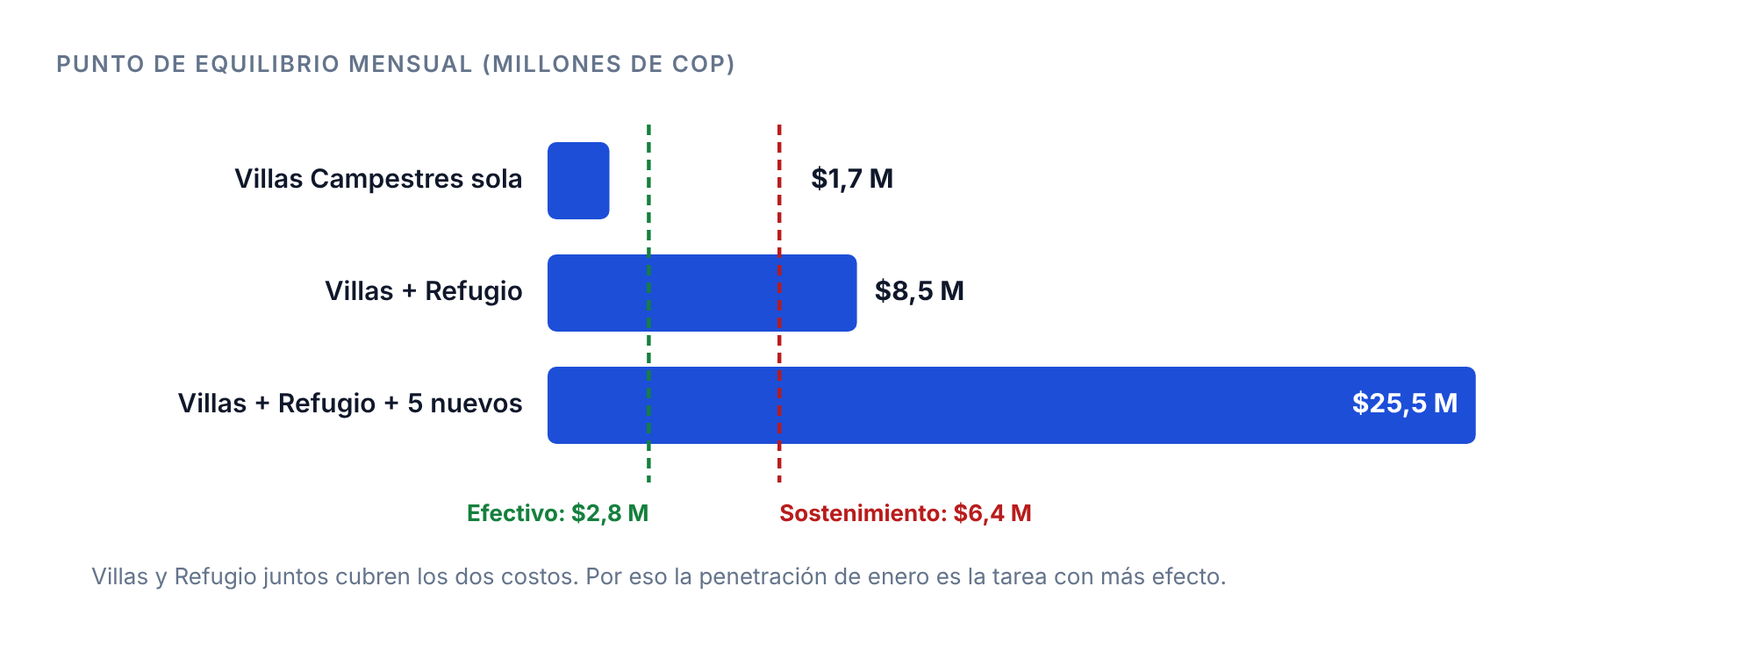
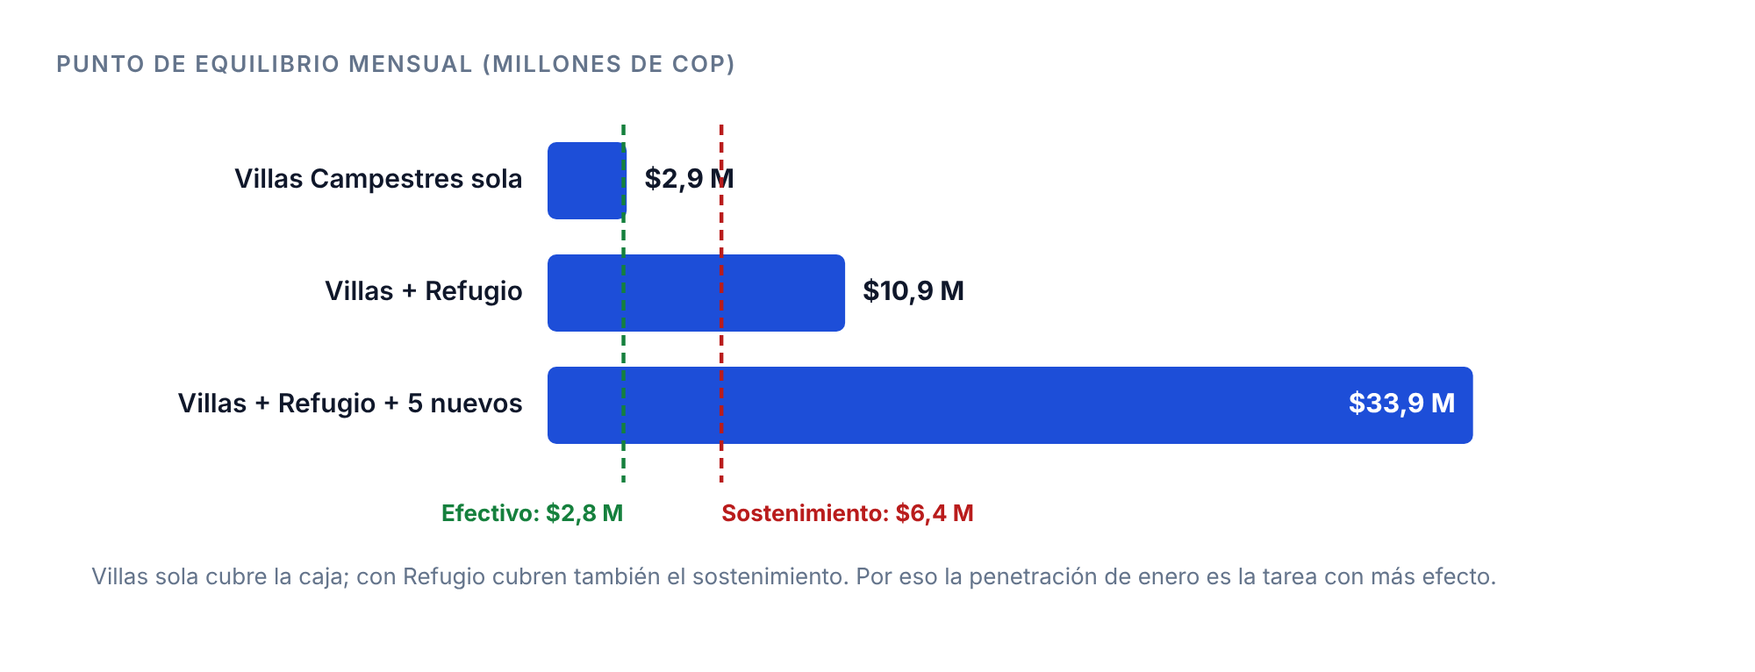
Roadmap: precio con pago fijo de $1.200.000 + $16.000 por casa (D-014 D)
Alejandro cambió el precio en el chat del proyecto: pago fijo por
conjunto + cobro por casa + comisión de $2.000 por pago. Recalcula
ingresos, escenarios, equilibrio y figuras. KINO queda entre 6 % y 29 %
más caro que Unita; el documento lo dice.

Claude-Session: https://claude.ai/code/session_012DQwra82ZAV2m5H2koZjXH

diff --git a/eafit/2026-11-roadmap-estrategia/entrega/figuras/fuente-figuras.html b/eafit/2026-11-roadmap-estrategia/entrega/figuras/fuente-figuras.html
@@ -126,7 +126,7 @@ svg text{font-family:Inter,sans-serif}
 <!-- 21 PESO EN LA CUOTA -->
 <div class="fig" id="f21">
  <div class="t">Cuánto pesa cada costo en lo que recauda el conjunto (% de la cuota)</div>
- <svg id="sv21" width="936" height="200"></svg>
+ <svg id="sv21" width="936" height="250"></svg>
 </div>
 
 <!-- 12 EXPANSION -->
@@ -259,20 +259,20 @@ el(s,'line',{x1:L+W/2,y1:T,x2:L+W/2,y2:T+H,stroke:C.line,'stroke-dasharray':'4 4
 tx(s,L+W/2,T+H+34,'Riesgo de ejecución →',{a:'middle',fw:600,fill:C.mut});
 el(s,'text',{x:28,y:T+H/2,'font-size':15,fill:C.mut,'font-weight':600,'text-anchor':'middle',transform:`rotate(-90 28 ${T+H/2})`},'Rentabilidad →');
 ['Bajo','Medio','Alto'].forEach((t,i)=>tx(s,L+W*(i*.5),T+H+16,t,{a:i==0?'start':i==1?'middle':'end',fs:12.5,fill:C.mut}));
-const P=[['A','Por casa, con mínimo',.15,.86,1],['B','Piso + casa (Unita)',.32,.70,0],['C','Por valor',.58,.76,0],['D','Comisión de pagos',.86,.93,1],['E','Implementación',.12,.57,1],['F','Canal de instaladores',.55,.25,0]];
+const P=[['A','Por casa, con mínimo',.15,.70,0],['B','Pago fijo + casa',.24,.86,1],['C','Por valor',.58,.76,0],['D','Comisión de pagos',.86,.93,1],['E','Implementación',.12,.57,1],['F','Canal de instaladores',.55,.25,0]];
 P.forEach(([k,n,rx,ry,ch])=>{const x=L+rx*W,y=T+(1-ry)*H;const col=ch==1?C.ac:ch==2?C.ac2:C.mut;el(s,'circle',{cx:x,cy:y,r:22,fill:ch?col:'#fff',stroke:col,'stroke-width':2});tx(s,x,y+1,k,{a:'middle',b:'middle',fw:700,fill:ch?'#fff':col,fs:16});const lf=k=='D';const ox=lf?-30:30,an=lf?'end':'start';tx(s,x+ox,y-4,n,{fw:700,fill:C.ink,fs:14.5,a:an});tx(s,x+ox,y+14,ch==1?'elegido desde el primer conjunto':ch==2?'elegido desde la etapa 03':'no elegido por ahora',{fs:12.5,fill:ch?col:C.mut,a:an})});})();
 
 // 10 ancla
-(()=>{const s=document.getElementById('sv10');const L=250,W=520,max=20e6;const R=[['Puesto de vigilancia 24 h',17.1e6,19.6e6,C.mut],['KINO · Refugio (400 casas)',6.4e6,0,C.ac],['KINO · Villas (100 casas)',1.6e6,0,C.ac]];
+(()=>{const s=document.getElementById('sv10');const L=250,W=520,max=20e6;const R=[['Puesto de vigilancia 24 h',17.1e6,19.6e6,C.mut],['KINO · Refugio (400 casas)',7.6e6,0,C.ac],['KINO · Villas (100 casas)',2.8e6,0,C.ac]];
 R.forEach((r,i)=>{const y=20+i*66;tx(s,L-14,y+22,r[0],{a:'end',b:'middle',fw:600,fill:C.ink});el(s,'rect',{x:L,y,width:r[1]/max*W,height:44,rx:6,fill:r[3]});if(r[2])el(s,'rect',{x:L+r[1]/max*W,y,width:(r[2]-r[1])/max*W,height:44,rx:0,fill:r[3],opacity:.4});tx(s,L+(r[2]||r[1])/max*W+10,y+22,r[2]?`$${M(r[1])} a $${M(r[2])} M`:`$${M(r[1])} M`,{b:'middle',fw:700,fill:C.ink})});
-tx(s,20,236,'Villas paga KINO con el 9 % de lo que cuesta un puesto de vigilancia. Fuentes: Noticias RCN y El Espectador (2026); precio de KINO del capítulo 2.',{fs:13,fill:C.mut});})();
+tx(s,20,236,'Villas paga KINO con el 14 % al 16 % de lo que cuesta un puesto de vigilancia. Fuentes: Noticias RCN y El Espectador (2026).',{fs:13,fill:C.mut});})();
 
 // 11 precio KINO frente a Unita
-(()=>{const s=document.getElementById('sv11');const L=250,W=560,max=7e6;const R=[['Villas Campestres · 100 casas',100],['Conjunto nuevo · 200 casas',200],['Refugio Campestre · 400 casas',400]];
-R.forEach((r,i)=>{const y=14+i*66;const k=Math.max(1.2e6,r[1]*16000),u=1.55e6+r[1]*10900;tx(s,L-14,y+25,r[0],{a:'end',b:'middle',fw:600,fill:C.ink});
+(()=>{const s=document.getElementById('sv11');const L=250,W=560,max=8.5e6;const R=[['Villas Campestres · 100 casas',100],['Conjunto nuevo · 200 casas',200],['Refugio Campestre · 400 casas',400]];
+R.forEach((r,i)=>{const y=14+i*66;const k=1.2e6+r[1]*16000,u=1.55e6+r[1]*10900;tx(s,L-14,y+25,r[0],{a:'end',b:'middle',fw:600,fill:C.ink});
 el(s,'rect',{x:L,y,width:k/max*W,height:24,fill:C.ac,rx:4});tx(s,L+k/max*W+10,y+12,'KINO $'+fmt(k),{b:'middle',fw:700,fill:C.ink,fs:14});
 el(s,'rect',{x:L,y:y+28,width:u/max*W,height:20,fill:C.line,rx:4});tx(s,L+u/max*W+10,y+38,'Unita $'+fmt(u),{b:'middle',fill:C.mut,fs:13})});
-tx(s,20,232,'KINO: $16.000 por casa al mes, mínimo $1.200.000. Unita: $1.550.000 por conjunto + $10.900 por casa. KINO es más barato hasta 304 casas.',{fs:13,fill:C.mut});})();
+tx(s,20,232,'KINO: $1.200.000 por conjunto + $16.000 por casa al mes. Unita: $1.550.000 por conjunto + $10.900 por casa.',{fs:13,fill:C.mut});})();
 
 // 12 expansion
 (()=>{const s=document.getElementById('sv12');arrowDef(s,'a12');const L=150,B=380,W=740,H=340;
@@ -331,8 +331,8 @@ parts.forEach((p,j)=>{const x=L+j*165;el(s,'rect',{x,y:226,width:14,height:14,fi
 tx(s,20,272,'El trabajo de los socios vale $3.120.000 al mes, pero hoy no sale de la caja. La alternativa barata es la del apartado 5.5 (en efectivo).',{fs:13,fill:C.mut});})();
 
 // 15 escenarios
-(()=>{const s=document.getElementById('sv15');const L=70,B=300,H=260,max=300;const sc=[['Conservador',134.1],['Base',231.7],['Optimista',256.8]];const ce=40.14,cs=109.58;
-[0,50,100,150,200,250,300].forEach(v=>{const y=B-v/max*H;el(s,'line',{x1:L,y1:y,x2:900,y2:y,stroke:C.soft});tx(s,L-10,y,String(v),{a:'end',b:'middle',fs:12.5,fill:C.mut})});
+(()=>{const s=document.getElementById('sv15');const L=70,B=300,H=260,max=350;const sc=[['Conservador',172.5],['Base',300.1],['Optimista',331.2]];const ce=40.14,cs=109.58;
+[0,50,100,150,200,250,300,350].forEach(v=>{const y=B-v/max*H;el(s,'line',{x1:L,y1:y,x2:900,y2:y,stroke:C.soft});tx(s,L-10,y,String(v),{a:'end',b:'middle',fs:12.5,fill:C.mut})});
 sc.forEach((r,i)=>{const x=L+60+i*260;const h=r[1]/max*H;el(s,'rect',{x,y:B-h,width:110,height:h,fill:i==1?C.ac:C.acs,stroke:C.ac,rx:4});tx(s,x+55,B-h-10,'$'+r[1].toFixed(1).replace('.',',')+' M',{a:'middle',fw:700,fill:C.ink});tx(s,x+55,B+22,r[0],{a:'middle',fw:i==1?700:600,fill:C.ink})});
 let lg=0;const ln=(v,c,t)=>{const y=B-v/max*H;el(s,'line',{x1:L,y1:y,x2:900,y2:y,stroke:c,'stroke-width':2.2,'stroke-dasharray':'7 5'});el(s,'line',{x1:L+lg,y1:B+48,x2:L+lg+28,y2:B+48,stroke:c,'stroke-width':2.2,'stroke-dasharray':'7 5'});tx(s,L+lg+36,B+53,t,{fs:13.5,fw:700,fill:c});lg+=330};
 ln(ce,C.ok,'Costo en efectivo: $40,1 M');ln(cs,C.ba,'Costo de sostenimiento: $109,6 M');
@@ -340,10 +340,10 @@ tx(s,L,B+84,'Los tres escenarios cubren los dos costos. El base cumple la meta d
 
 // 16 flujo acumulado
 (()=>{const s=document.getElementById('sv16');const ms=['nov','dic','ene','feb','mar','abr','may','jun','jul','ago','sep','oct','nov','dic'];
-const E=[-3981735,-3563470,-6345205,-626940,5091325,17409590,33127855,52246120,74764385,100682650,123400915,146119180,168837445,191555710];
-const S=[-7569735,-13939470,-20309205,-18178940,-16048675,-10518410,-1588145,10742120,26472385,45602650,64732915,83863180,102993445,122123710];
-const L=80,T=20,W=740,H=330,min=-50e6,max=250e6;const y=v=>T+(max-v)/(max-min)*H;const x=i=>L+i*(W/13);
-[-50,0,50,100,150,200,250].forEach(v=>{el(s,'line',{x1:L,y1:y(v*1e6),x2:L+W,y2:y(v*1e6),stroke:v==0?C.ink:C.soft,'stroke-width':v==0?1.5:1});tx(s,L-10,y(v*1e6),String(v),{a:'end',b:'middle',fs:12.5,fill:C.mut})});
+const E=[-3981735,-3563470,-6345205,1773060,9891325,25809590,46327855,71446120,101164385,135482650,166600915,197719180,228837445,259955710];
+const S=[-7569735,-13939470,-20309205,-15778940,-11248675,-2118410,11611855,29942120,52872385,80402650,107932915,135463180,162993445,190523710];
+const L=80,T=20,W=740,H=330,min=-50e6,max=300e6;const y=v=>T+(max-v)/(max-min)*H;const x=i=>L+i*(W/13);
+[-50,0,50,100,150,200,250,300].forEach(v=>{el(s,'line',{x1:L,y1:y(v*1e6),x2:L+W,y2:y(v*1e6),stroke:v==0?C.ink:C.soft,'stroke-width':v==0?1.5:1});tx(s,L-10,y(v*1e6),String(v),{a:'end',b:'middle',fs:12.5,fill:C.mut})});
 ms.forEach((m,i)=>tx(s,x(i),T+H+20,m,{a:'middle',fs:12.5,fill:C.mut}));tx(s,x(0.5),T+H+40,'2026',{a:'middle',fs:12,fw:700,fill:C.ink});tx(s,x(8),T+H+40,'2027',{a:'middle',fs:12,fw:700,fill:C.ink});
 [[3,'Villas y Refugio pagan',14],[5,'Primer conjunto nuevo',34]].forEach(([i,t,o])=>{el(s,'line',{x1:x(i),y1:T,x2:x(i),y2:T+H,stroke:C.line,'stroke-dasharray':'4 4'});tx(s,x(i)+6,T+o,t,{fs:12.5,fw:700,fill:C.mut})});
 const path=(A,c)=>{let d='';A.forEach((v,i)=>d+=(i?' L':'M')+x(i)+','+y(v));el(s,'path',{d,stroke:c,'stroke-width':3,fill:'none'});A.forEach((v,i)=>el(s,'circle',{cx:x(i),cy:y(v),r:3.5,fill:c}))};
@@ -353,14 +353,14 @@ tx(s,x(2),y(S[2])+24,'punto más bajo: '+M(S[2]),{fs:12.5,fill:C.ba,fw:600,a:'mi
 el(s,'line',{x1:L,y1:T+H+58,x2:L+24,y2:T+H+58,stroke:C.ok,'stroke-width':3});tx(s,L+30,T+H+62,'En efectivo',{fs:13.5});el(s,'line',{x1:L+150,y1:T+H+58,x2:L+174,y2:T+H+58,stroke:C.ba,'stroke-width':3});tx(s,L+180,T+H+62,'Sostenimiento (incluye el trabajo de los socios)',{fs:13.5});})();
 
 // 17 equilibrio
-(()=>{const s=document.getElementById('sv17');const L=280,W=560,max=27e6;const R=[['Villas Campestres sola',1.7e6],['Villas + Refugio',8.5e6],['Villas + Refugio + 5 nuevos',25.5e6]];
-R.forEach((r,i)=>{const yy=20+i*64;tx(s,L-14,yy+22,r[0],{a:'end',b:'middle',fw:600,fill:C.ink});el(s,'rect',{x:L,y:yy,width:r[1]/max*W,height:44,rx:5,fill:C.ac});const lx=L+r[1]/max*W+10;tx(s,i==2?lx-20:(i==0?L+150:lx),yy+22,'$'+M(r[1])+' M',{b:'middle',fw:700,fill:i==2?'#fff':C.ink,a:i==2?'end':'start'})});
+(()=>{const s=document.getElementById('sv17');const L=280,W=560,max=36e6;const R=[['Villas Campestres sola',2.9e6],['Villas + Refugio',10.9e6],['Villas + Refugio + 5 nuevos',33.9e6]];
+R.forEach((r,i)=>{const yy=20+i*64;tx(s,L-14,yy+22,r[0],{a:'end',b:'middle',fw:600,fill:C.ink});el(s,'rect',{x:L,y:yy,width:r[1]/max*W,height:44,rx:5,fill:C.ac});const lx=L+r[1]/max*W+10;tx(s,i==2?lx-20:lx,yy+22,'$'+M(r[1])+' M',{b:'middle',fw:700,fill:i==2?'#fff':C.ink,a:i==2?'end':'start'})});
 const ln=(v,c,t,o,an)=>{const x=L+v/max*W;el(s,'line',{x1:x,y1:10,x2:x,y2:214,stroke:c,'stroke-width':2.2,'stroke-dasharray':'6 4'});tx(s,x,236+o,t,{a:an,fs:13,fw:700,fill:c})};
 ln(2781735,C.ok,'Efectivo: $2,8 M',0,'end');ln(6369735,C.ba,'Sostenimiento: $6,4 M',0,'start');
-tx(s,20,272,'Villas y Refugio juntos cubren los dos costos. Por eso la penetración de enero es la tarea con más efecto.',{fs:13,fill:C.mut});})();
+tx(s,20,272,'Villas sola cubre la caja; con Refugio cubren también el sostenimiento. Por eso la penetración de enero es la tarea con más efecto.',{fs:13,fill:C.mut});})();
 
 // 21 peso en la cuota
-(()=>{const s=document.getElementById('sv21');const L=330,W=480,max=40;const R=[['Puesto de vigilancia · Villas (100 casas)',28.5,32.7,C.mut],['Puesto de vigilancia · Refugio (400 casas)',7.1,8.2,C.mut],['KINO · cualquier conjunto',2.7,0,C.ac]];
+(()=>{const s=document.getElementById('sv21');const L=330,W=480,max=40;const R=[['Puesto de vigilancia · Villas (100 casas)',28.5,32.7,C.mut],['Puesto de vigilancia · Refugio (400 casas)',7.1,8.2,C.mut],['KINO · Villas (100 casas)',4.7,0,C.ac],['KINO · Refugio (400 casas)',3.2,0,C.ac]];
 R.forEach((r,i)=>{const y=14+i*50;tx(s,L-14,y+17,r[0],{a:'end',b:'middle',fw:600,fill:C.ink,fs:14});el(s,'rect',{x:L,y,width:r[1]/max*W,height:34,rx:5,fill:r[3]});if(r[2])el(s,'rect',{x:L+r[1]/max*W,y,width:(r[2]-r[1])/max*W,height:34,fill:r[3],opacity:.4});const v=r[2]?`${String(r[1]).replace('.',',')} % a ${String(r[2]).replace('.',',')} %`:`${String(r[1]).replace('.',',')} %`;tx(s,L+(r[2]||r[1])/max*W+10,y+17,v,{b:'middle',fw:700,fill:C.ink})});
-tx(s,20,180,'Parte de lo que recauda el conjunto con una cuota de $600.000 por casa. Vigilancia: $17,1 a $19,6 M al mes (Noticias RCN y El Espectador, 2026).',{fs:13,fill:C.mut});})();
+tx(s,20,230,'Parte de lo que recauda el conjunto con una cuota de $600.000 por casa. Vigilancia: $17,1 a $19,6 M al mes (Noticias RCN y El Espectador, 2026).',{fs:13,fill:C.mut});})();
 </script></body></html>

diff --git a/eafit/2026-11-roadmap-estrategia/entrega/KINO_Roadmap-estrategia-presupuesto.md b/eafit/2026-11-roadmap-estrategia/entrega/KINO_Roadmap-estrategia-presupuesto.md
@@ -17,10 +17,10 @@ KINO es una plataforma de control de acceso para conjuntos cerrados. Hoy opera e
 | ¿Qué resolvemos? | Quien conoce a la visita (el residente) no tiene autoridad para dejarla entrar, y quien tiene autoridad (portería) no la conoce |
 | ¿A quién vendemos? | Solo a la administración del conjunto. Primero, a conjuntos campestres del oriente antioqueño con hardware HikCentral |
 | ¿En qué orden crecemos? | Villas Campestres y Refugio Campestre en diciembre de 2026 y enero de 2027; 5 conjuntos nuevos del oriente antioqueño en el primer trimestre de 2027; después, el Valle de Aburrá |
-| ¿Cómo cobramos? | Cobro por casa construida, con un mínimo por conjunto + implementación única + comisión por cada pago de la cuota en la app, desde el primer conjunto |
+| ¿Cómo cobramos? | Pago fijo por conjunto + cobro por casa construida + implementación única + comisión por cada pago de la cuota en la app, desde el primer conjunto |
 | ¿Cuándo está lista la app? | En diciembre de 2026, completa y con pagos. En enero de 2027, el 80 % de las casas de Villas y Refugio la usa |
-| ¿Cuánto cobramos? | $16.000 por casa al mes, con un mínimo de $1.200.000 por conjunto: el 2,7 % de la cuota de administración |
-| ¿Cuánto cuesta y cuándo se sostiene? | $2,8 millones al mes en efectivo ($1,4 millones con la alternativa más barata). Villas y Refugio lo cubren desde febrero de 2027. Escenario base a diciembre de 2027: +$192 millones en efectivo |
+| ¿Cuánto cobramos? | $1.200.000 al mes por conjunto + $16.000 por casa + $2.000 por pago: entre el 3,2 % y el 4,7 % de la cuota de administración |
+| ¿Cuánto cuesta y cuándo se sostiene? | $2,8 millones al mes en efectivo ($1,4 millones con la alternativa más barata). Villas y Refugio lo cubren desde febrero de 2027. Escenario base a diciembre de 2027: +$260 millones en efectivo |
 
 ![Figura 1. Mapa del documento. Cada capítulo responde una pregunta.](figuras/f01.png){width=100%}
 
@@ -160,8 +160,8 @@ El equipo evaluó seis formas de cobrar. La figura 10 las ubica por rentabilidad
 
 | Modelo | Cómo cobra | Rentabilidad | Riesgo |
 |---|---|---|---|
-| **A · Por casa, con mínimo** | Una tarifa por casa construida y un mínimo por conjunto | Alta: el mínimo cubre el soporte del conjunto pequeño | Bajo |
-| B · Piso + casa | Una tarifa fija por conjunto más una tarifa por casa (el modelo de Unita [5]) | Alta | Bajo, pero castiga al conjunto pequeño |
+| A · Por casa, con mínimo | Una tarifa por casa construida y un mínimo por conjunto | Alta | Bajo, pero el mínimo se puede leer como una barrera de entrada |
+| **B · Pago fijo + casa** | Un pago fijo por conjunto más una tarifa por casa (también lo usa Unita [5]) | Alta: el pago fijo cubre el soporte del conjunto y la tarifa por casa crece con su tamaño | Bajo |
 | C · Por valor | Una fracción del costo de un puesto de vigilancia | Alta | Medio: exige probar el ahorro en portería |
 | **D · Comisión de pagos** | Margen sobre la pasarela cuando el residente paga la cuota de administración en la app | La más alta a escala: crece sin trabajo extra | Alto: exige alianza con la pasarela y el módulo de pagos |
 | **E · Implementación** | Cobro único al empezar | Media: da caja al inicio y filtra clientes | Bajo |
@@ -171,7 +171,7 @@ Para el modelo D, la pasarela Wompi cobra 2,65 % + $700 + IVA en pagos en línea
 
 **Descartados.** Cobrar a la visita (recibe el KEY sin cuenta). Cobrar al residente (solo compra la administración). Marca blanca (KINO mantiene su marca). Vender datos de ingresos (Ley 1581 de 2012 [17]).
 
-> **Modelo elegido.** A con mínimo + D + E desde el primer conjunto.
+> **Modelo elegido.** B + D + E desde el primer conjunto.
 
 **Costo marginal.** Una casa más casi no sube el costo de KINO: la infraestructura y el trabajo son fijos (capítulo 5). Después del punto de equilibrio, cada peso nuevo es margen (inferido).
 
@@ -197,7 +197,7 @@ El residente paga la cuota de administración desde la app. El dinero va a la cu
 
 ## 2.9 Precio
 
-> **Precio.** $16.000 al mes por casa construida, con un mínimo de $1.200.000 al mes por conjunto + $3.200.000 de implementación, una vez + $2.000 por cada pago de la cuota en la app.
+> **Precio.** $1.200.000 al mes por conjunto + $16.000 al mes por casa construida + $2.000 por cada pago de la cuota en la app + $3.200.000 de implementación, una vez.
 
 El precio se justifica con tres referencias:
 
@@ -205,21 +205,21 @@ El precio se justifica con tres referencias:
 |---|---|---|
 | Costo | Lo que cuesta atender a los conjuntos | $2,8 millones al mes en efectivo; $6,4 millones con el trabajo de los socios (capítulo 5) |
 | Techo | Lo que el residente ya paga y lo que el conjunto gasta en portería | Cuota de administración promedio de Villas y Refugio: $600.000 al mes por casa [9]. Un puesto de vigilancia 24 horas: $17,1 a $19,6 millones al mes [10] [11] |
-| Ancla | El precio de su competidor directo, Unita | $1.550.000 al mes por conjunto + $10.900 al mes por casa [5]. KINO no lo copia: cobra solo por casa |
+| Ancla | El precio de su competidor directo, Unita | $1.550.000 al mes por conjunto + $10.900 al mes por casa [5] |
 
-**Por qué no copia a Unita.** Unita cobra un piso fijo más una tarifa por casa [5]. KINO cobra solo por casa, con un mínimo que cubre el soporte de un conjunto pequeño (inferido). El residente lo entiende en una línea: el 2,7 % de su cuota. Además, KINO da lo que Unita no tiene: el KEY sin cuenta para la visita y la integración probada con el hardware del conjunto (apartado 1.3).
+**KINO frente a Unita.** Los dos cobran un pago fijo más una tarifa por casa [5]. KINO cobra menos de pago fijo y más por casa, así que cuesta más que Unita en todos los tamaños:
 
 | Conjunto | KINO al mes | Unita al mes [5] | Diferencia |
 |---|---|---|---|
-| Villas Campestres (100 casas) | $1.600.000 | $2.640.000 | −39 % |
-| Conjunto nuevo (200 casas, supuesto) | $3.200.000 | $3.730.000 | −14 % |
-| Refugio Campestre (400 casas) | $6.400.000 | $5.910.000 | +8 % |
+| Villas Campestres (100 casas) | $2.800.000 | $2.640.000 | +6 % |
+| Conjunto nuevo (200 casas, supuesto) | $4.400.000 | $3.730.000 | +18 % |
+| Refugio Campestre (400 casas) | $7.600.000 | $5.910.000 | +29 % |
 
-KINO es más barato hasta 304 casas y un poco más caro por encima. El conjunto grande recibe más visitas y colaboradores, así que recibe más valor (inferido). El mínimo de $1.200.000 aplica a conjuntos de menos de 75 casas.
+La diferencia se justifica solo con lo que Unita no tiene: el KEY sin cuenta para la visita y la integración probada con el hardware del conjunto (apartado 1.3). La venta tiene que mostrarlo con el caso del piloto (H3). El conjunto grande paga más, y también recibe más visitas y colaboradores (inferido).
 
 ![Figura 12. Cuánto paga cada conjunto al mes con el precio de KINO.](figuras/f10.png){width=100%}
 
-**Cuánto pesa KINO en la cuota.** Con una cuota de $600.000, KINO cuesta el 2,7 % de lo que paga cada casa, en cualquier conjunto. En lo que recauda cada conjunto, un puesto de vigilancia pesa entre el 7,1 % (Refugio) y el 33 % (Villas) (figura 14).
+**Cuánto pesa KINO en la cuota.** Con una cuota de $600.000, KINO cuesta entre el 3,2 % (Refugio) y el 4,7 % (Villas) de lo que paga cada casa. El pago fijo pesa más en el conjunto pequeño. En lo que recauda cada conjunto, un puesto de vigilancia pesa entre el 7,1 % (Refugio) y el 33 % (Villas) (figura 14).
 
 ![Figura 13. KINO frente al costo de un puesto de vigilancia.](figuras/f11.png){width=100%}
 
@@ -229,8 +229,8 @@ KINO es más barato hasta 304 casas y un poco más caro por encima. El conjunto 
 
 **Lectura (inferido).**
 
-1. El 2,7 % de la cuota es igual para todo conjunto: el precio no castiga al conjunto pequeño.
-2. Frente a un puesto de vigilancia, Villas paga KINO con el 9 % de lo que cuesta el puesto y Refugio con cerca del 35 %.
+1. KINO pesa menos del 5 % de la cuota en los dos conjuntos del piloto.
+2. Frente a un puesto de vigilancia, Villas paga KINO con el 14 % al 16 % de lo que cuesta el puesto y Refugio con el 39 % al 44 %.
 3. El costo de portería propio de Villas y Refugio todavía no está. Cuando llegue, reemplaza la cifra de mercado del techo.
 
 # 3. Expansión
@@ -318,7 +318,7 @@ Fechas fijadas por el equipo el 9 de noviembre de 2026 [9]. La fecha de H4 es un
 
 # 5. Presupuesto
 
-> **En una frase.** KINO cuesta $2,8 millones al mes en efectivo. Villas y Refugio cubren ese costo desde febrero de 2027. Con los 5 conjuntos nuevos, el escenario base cierra diciembre de 2027 con +$192 millones en efectivo. Una alternativa más barata baja el costo a $1,4 millones al mes.
+> **En una frase.** KINO cuesta $2,8 millones al mes en efectivo. Villas y Refugio cubren ese costo desde febrero de 2027. Con los 5 conjuntos nuevos, el escenario base cierra diciembre de 2027 con +$260 millones en efectivo. Una alternativa más barata baja el costo a $1,4 millones al mes.
 
 Horizonte: noviembre de 2026 a diciembre de 2027 (14 meses). Fuente de dinero: capital propio de los socios [9].
 
@@ -418,19 +418,19 @@ Cinco cambios bajan el costo en efectivo a la mitad sin quitarle al proyecto nad
 
 Precio del apartado 2.9. Villas Campestres no paga implementación porque ya está implementada. Con el 50 % de las casas pagando en la app:
 
-| Conjunto | Casas × $16.000 | Comisión de pagos | Al mes |
+| Conjunto | $1.200.000 + casas × $16.000 | Comisión de pagos | Al mes |
 |---|---|---|---|
-| Villas Campestres (100 casas) | 1.600.000 | 50 × 2.000 = 100.000 | 1.700.000 |
-| Refugio Campestre (400 casas) | 6.400.000 | 200 × 2.000 = 400.000 | 6.800.000 |
-| Conjunto nuevo (200 casas) | 3.200.000 | 100 × 2.000 = 200.000 | 3.400.000 |
+| Villas Campestres (100 casas) | 2.800.000 | 50 × 2.000 = 100.000 | 2.900.000 |
+| Refugio Campestre (400 casas) | 7.600.000 | 200 × 2.000 = 400.000 | 8.000.000 |
+| Conjunto nuevo (200 casas) | 4.400.000 | 100 × 2.000 = 200.000 | 4.600.000 |
 
 Los escenarios cambian cuántos conjuntos nuevos entran, desde cuándo y cuántas casas pagan en la app. El precio es el mismo.
 
 | Escenario | Conjuntos nuevos | Pagos en la app | Comisión a dic 2027 | Ingreso a dic 2027 |
 |---|---|---|---|---|
-| Conservador | 2, en julio y septiembre de 2027 | 30 % | 4.500.000 | 134.100.000 |
-| **Base** | **5, uno por mes de abril a agosto de 2027** | **50 %** | **12.500.000** | **231.700.000** |
-| Optimista | 5, uno por mes de marzo a julio de 2027 | 80 % | 21.600.000 | 256.800.000 |
+| Conservador | 2, en julio y septiembre de 2027 | 30 % | 4.500.000 | 172.500.000 |
+| **Base** | **5, uno por mes de abril a agosto de 2027** | **50 %** | **12.500.000** | **300.100.000** |
+| Optimista | 5, uno por mes de marzo a julio de 2027 | 80 % | 21.600.000 | 331.200.000 |
 
 Los tres escenarios incluyen a Villas y Refugio desde febrero de 2027 y una implementación de $3.200.000 por cada conjunto nuevo y por Refugio.
 
@@ -440,22 +440,22 @@ Los tres escenarios incluyen a Villas y Refugio desde febrero de 2027 y una impl
 
 | Escenario | Ingresos | En efectivo | Sostenimiento |
 |---|---|---|---|
-| Conservador | 134.100.000 | +93.955.710 | +34.123.710 |
-| **Base** | **231.700.000** | **+191.555.710** | **+122.123.710** |
-| Optimista | 256.800.000 | +216.655.710 | +147.223.710 |
+| Conservador | 172.500.000 | +132.355.710 | +72.523.710 |
+| **Base** | **300.100.000** | **+259.955.710** | **+190.523.710** |
+| Optimista | 331.200.000 | +291.055.710 | +221.623.710 |
 
-Sin impuestos. Con la alternativa más barata, el escenario base sube a +$211,3 millones en efectivo.
+Sin impuestos. Con la alternativa más barata, el escenario base sube a +$279,7 millones en efectivo.
 
-**Cuánto capital ponen los socios.** La figura 19 muestra el acumulado del escenario base mes a mes. La caja toca su punto más bajo en enero de 2027: −$6,3 millones, que pagan los socios con capital propio. Desde marzo de 2027 la caja queda en positivo. El sostenimiento llega a −$20,3 millones en enero y queda en positivo desde junio de 2027.
+**Cuánto capital ponen los socios.** La figura 19 muestra el acumulado del escenario base mes a mes. La caja toca su punto más bajo en enero de 2027: −$6,3 millones, que pagan los socios con capital propio. Desde febrero de 2027 la caja queda en positivo. El sostenimiento llega a −$20,3 millones en enero y queda en positivo desde mayo de 2027.
 
 ![Figura 19. Escenario base: resultado acumulado mes a mes.](figuras/f16.png){width=100%}
 
 | Tramo | Ingreso al mes | Qué pasa |
 |---|---|---|
 | nov 2026 a ene 2027 | 0, más la implementación de Refugio en diciembre | Desarrollo y piloto. La caja baja a −$6,3 millones |
-| feb y mar 2027 | 8.500.000 (Villas + Refugio) | La caja se recupera |
-| abr a ago 2027 | De 11.900.000 a 25.500.000 | Entra un conjunto nuevo cada mes |
-| sep a dic 2027 | 25.500.000 | Siete conjuntos pagan |
+| feb y mar 2027 | 10.900.000 (Villas + Refugio) | La caja se recupera |
+| abr a ago 2027 | De 15.500.000 a 33.900.000 | Entra un conjunto nuevo cada mes |
+| sep a dic 2027 | 33.900.000 | Siete conjuntos pagan |
 
 Si Figma Enterprise se paga por adelantado, la caja necesita unos $7,1 millones más al inicio.
 
@@ -465,15 +465,15 @@ Si Figma Enterprise se paga por adelantado, la caja necesita unos $7,1 millones 
 
 | Conjuntos que pagan | Ingreso al mes | Cubre el efectivo (2.781.735) | Cubre el sostenimiento (6.369.735) |
 |---|---|---|---|
-| Villas Campestres sola | 1.700.000 | No: 61 % | 27 % |
-| Villas + Refugio | 8.500.000 | Sí | Sí, con +2.130.265 |
-| Villas + Refugio + 5 nuevos | 25.500.000 | Sí | Sí, con +19.130.265 |
+| Villas Campestres sola | 2.900.000 | Sí, con +118.265 | No: 46 % |
+| Villas + Refugio | 10.900.000 | Sí | Sí, con +4.530.265 |
+| Villas + Refugio + 5 nuevos | 33.900.000 | Sí | Sí, con +27.530.265 |
 
 **Lectura (inferido).**
 
-1. Villas sola no cubre la caja con las herramientas actuales ($1,7 millones frente a $2,8 millones). Con la alternativa más barata ($1,4 millones), sí.
+1. Villas sola ya cubre la caja ($2,9 millones frente a $2,8 millones), pero no el trabajo de los socios.
 2. Villas y Refugio juntos cubren el sostenimiento completo desde febrero de 2027. Por eso la penetración de enero (apartado 2.4) es la tarea con más efecto en el presupuesto.
-3. La comisión de pagos suma $12,5 millones en el escenario base, el 5 % del ingreso. Su valor está en que el residente vuelve a la app cada mes, no en el ingreso.
+3. La comisión de pagos suma $12,5 millones en el escenario base, el 4 % del ingreso. Su valor está en que el residente vuelve a la app cada mes, no en el ingreso.
 4. El riesgo mayor es la capacidad: implementar 5 conjuntos entre abril y agosto pide el doble de horas de hoy.
 
 ## 5.10 Fuera del presupuesto
@@ -513,7 +513,7 @@ No hay líneas base todavía. Cada indicador dice cómo se mide y una meta inici
 | Técnica | Errores de sincronización | Errores por semana | Umbral para pasar a la etapa 02 |
 | Negocio | Embudo comercial | Conjuntos contactados, propuestas y contratos | 5 contratos firmados al 31 de marzo de 2027 |
 | Negocio | Tasa de cierre | Propuestas aceptadas ÷ enviadas | Revisar al llegar a 5 propuestas |
-| Negocio | Ingreso recurrente mensual | Σ (casas × $16.000, con mínimo) + comisión de pagos | $8,5 millones con Villas + Refugio; $25,5 millones con 7 conjuntos |
+| Negocio | Ingreso recurrente mensual | Σ ($1.200.000 + casas × $16.000) + comisión de pagos | $10,9 millones con Villas + Refugio; $33,9 millones con 7 conjuntos |
 | Negocio | Costo de adquisición | Gasto comercial ÷ conjuntos firmados | Línea base con el primer cierre |
 | Negocio | Recuperación de la implementación | Costo de implementación ÷ margen mensual del conjunto | Línea base con Refugio |
 

diff --git a/kino/canon/decisiones.md b/kino/canon/decisiones.md
@@ -246,20 +246,21 @@ Cambia el momento de la comisión de pagos de D-010. Alejandro: «El D también 
 
 **Trazabilidad y HikCentral.** El curador trabaja sobre la forma de trabajar con IA, no sobre el producto. No toca la lógica de ingresos, el Pase ni la sincronización con HikCentral. Cada cambio queda en un PR con su informe y su corrida de Actions.
 
-## D-014 · Precio por casa con mínimo por conjunto · APROBADA (Alejandro, 9 nov 2026) · opción A
+## D-014 · Precio: pago fijo por conjunto + cobro por casa · APROBADA (Alejandro, 9 nov 2026) · opción D
 
 **Número.** Se propuso como D-013 y se renumeró a D-014 porque D-013 ya existía en `main` (curador semanal). El comentario de aprobación dice «D-013».
 
-**Aprobación.** [Comentario de Alejandro en el PR #28](https://github.com/Amonsalvem/kino/pull/28#issuecomment-6743415369).
+**Historia.** Alejandro aprobó primero la opción A en el [PR #28](https://github.com/Amonsalvem/kino/pull/28#issuecomment-6743415369). El 9 nov 2026, en el chat del proyecto, la cambió: «Prefiero el modelo de pago fijo, más cobro por casa, más la comisión de pago» y «Pago mínimo $1.200.000 + $16.000». Queda la opción D.
 
-Cambia la parte de cobro mensual de D-010 (piso por conjunto + cobro por casa). Alejandro eligió la opción A en la tarjeta del chat del proyecto el 9 nov 2026, después de señalar que igualar el precio de Unita «parece como una copia del modelo de pricing de ellos». Siguen igual la implementación única y la comisión de pagos (D-012).
+Precisa la parte de cobro mensual de D-010 (piso por conjunto + cobro por casa). Siguen igual la implementación única y la comisión de pagos de $2.000 (D-012).
 
 | Opción | Precio al mes | Villas (100 casas) | Refugio (400 casas) | Costo |
 |---|---|---|---|---|
-| A (recomendada) | $16.000 por casa construida, mínimo $1.200.000 por conjunto | $1.600.000 | $6.400.000 | Villas sola no cubre el costo en efectivo; Villas y Refugio juntos cubren el sostenimiento |
-| B | Piso $1.000.000 + $8.000 por casa | $1.800.000 | $4.200.000 | Villas y Refugio apenas cubren el sostenimiento |
+| A | $16.000 por casa construida, mínimo $1.200.000 por conjunto | $1.600.000 | $6.400.000 | El «mínimo» se puede leer como una barrera de entrada |
+| B | Pago fijo $1.000.000 + $8.000 por casa | $1.800.000 | $4.200.000 | Villas y Refugio apenas cubren el sostenimiento |
 | C | Igual a Unita: $1.550.000 + $10.900 por casa | $2.640.000 | $5.910.000 | Se lee como copia del competidor |
+| **D (elegida)** | **Pago fijo $1.200.000 + $16.000 por casa** | **$2.800.000** | **$7.600.000** | **Entre 6 % y 29 % más caro que Unita** |
 
-**Por qué.** Con una cuota de administración de $600.000 (dato corregido por Alejandro el 9 nov 2026), $16.000 es el 2,7 % de lo que paga cada casa en cualquier conjunto. KINO queda más barato que Unita hasta 304 casas y no castiga al conjunto pequeño.
+**Por qué.** Con la opción D, Villas sola cubre el costo en efectivo y Villas y Refugio juntos cubren el sostenimiento con $4,5 millones de sobra al mes. Con una cuota de administración de $600.000, KINO pesa entre el 3,2 % (Refugio) y el 4,7 % (Villas) de lo que paga cada casa. El precio más alto que Unita se sostiene solo si la venta muestra lo que Unita no tiene: el KEY sin cuenta para la visita y la integración probada con el hardware del conjunto.
 
 **Trazabilidad y HikCentral.** No cambia el KEY, la autoridad del residente ni la sincronización.
